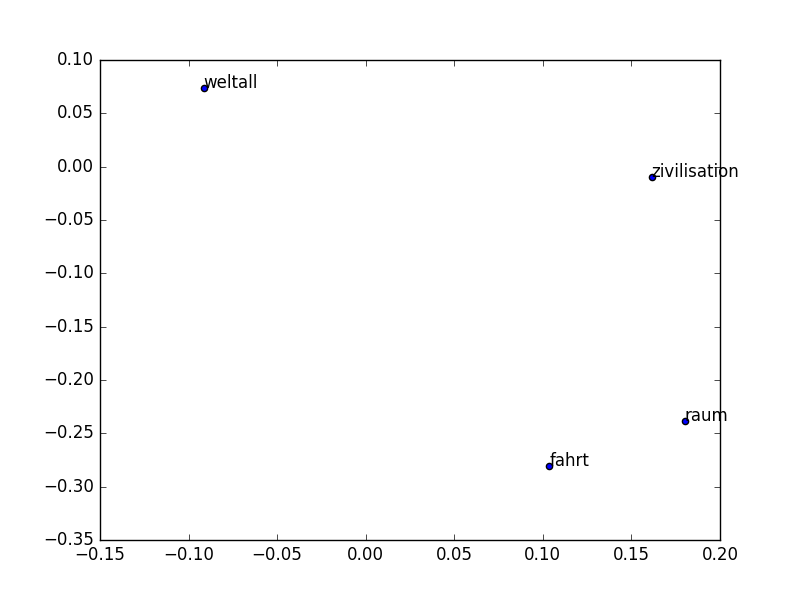
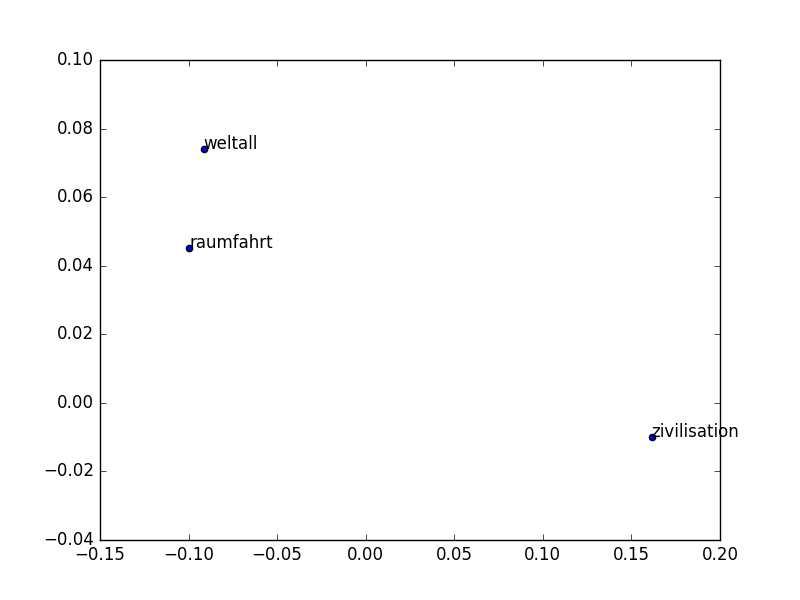
Add dataset to this script

diff --git a/evaluate_word_vectors.py b/evaluate_word_vectors.py
@@ -22,13 +22,17 @@ from sklearn.manifold import TSNE
 import morph_parse_german
 from sklearn import cross_validation
 from sklearn import svm
+from sklearn.linear_model import LogisticRegression, LogisticRegressionCV
 
-SPLIT_MORPH = True
+SPLIT_MORPH = False #True
+STEM = False
 
 def main():
     parser = argparse.ArgumentParser()
-    parser.add_argument('--vocab_file', default='glove/vocab_german_all.txt', type=str)
-    parser.add_argument('--vectors_file', default='glove/vectors_german_all.txt', type=str)
+    # parser.add_argument('--vocab_file', default='glove/vocab_german_unprocessed.txt', type=str)
+    # parser.add_argument('--vectors_file', default='glove/vectors_german_unprocessed.txt', type=str)
+    parser.add_argument('--vocab_file', default='neural_embeddings/de_en_50_1.vocab', type=str)
+    parser.add_argument('--vectors_file', default='neural_embeddings/de_en_50_1.txt', type=str)
     args = parser.parse_args()
 
     with open(args.vocab_file, 'r') as f:
@@ -85,16 +89,23 @@ def evaluate_vectors(W, vocab, ivocab, filename):
         plt.savefig("tsne-"+title+filename.split('.')[0].split('/')[1]+".png", format = 'png')
         plt.close()
 
-    plot_embeddings(["raum", "fahrt", "weltall", "zivilisation"], "1")
-    plot_embeddings(["klass", "zimm", "lesung", "saal", "vor", "raum"], "2")
-    plot_embeddings([("raum", "fahrt"), "weltall", ("klass", "raum"), ("vor", "lesung", "saal")], "3")
-    plot_embeddings([("raum", "fahrt", "zivilisation"), "weltall", ("klass", "raum"), ("vor", "lesung", "saal")], "4")
-    plot_embeddings([("raum", "fahrt", "zivilisation"), "weltall", ("klass", "raum"), ("vor", "lesung", "saal"), "schul", "grund","schul", "universitat"], "5")
-    # plot_embeddings([("raum", "fahrt", "zivilisation"), "weltall", ("klass", "raum"), ("vor", "lesung", "saal"), "schul", "grundschul", "universitat"], "5")
-    plot_embeddings(["autobahn", ("auto", "bahn"), "auto", "bahn"], "5")
-    plot_embeddings(["produkt", "ion", "landschaft", "fabrik", "manufaktur", ("produkt", "ion", "landschaft"), ("produkt", "ion"), ("produkt", "landschaft")], "6")
-    plot_embeddings(['organisation', 'struktur', ('organisation', 'struktur'), "firma", ("firma", "struktur"), "unter","nehm", ("unter","nehm", "struktur")], "7")
-    # plot_embeddings(['organisation', 'struktur', ('organisation', 'struktur'), "firma", ("firma", "struktur"), "unternehmen", ("unternehmen", "struktur")], "7_unprocessed")
+    # plot_embeddings(["raum", "fahrt", "weltall", "zivilisation"], "1")
+    # plot_embeddings(["klass", "zimm", "lesung", "saal", "vor", "raum"], "2")
+    # plot_embeddings([("raum", "fahrt"), "weltall", ("klass", "raum"), ("vor", "lesung", "saal")], "3")
+    # plot_embeddings([("raum", "fahrt", "zivilisation"), "weltall", ("klass", "raum"), ("vor", "lesung", "saal")], "4")
+    # plot_embeddings([("raum", "fahrt", "zivilisation"), "weltall", ("klass", "raum"), ("vor", "lesung", "saal"), "schul", "grund","schul", "universitat"], "5")
+    # # plot_embeddings([("raum", "fahrt", "zivilisation"), "weltall", ("klass", "raum"), ("vor", "lesung", "saal"), "schul", "grundschul", "universitat"], "5")
+    # plot_embeddings(["autobahn", ("auto", "bahn"), "auto", "bahn"], "5")
+    # plot_embeddings(["produkt", "ion", "landschaft", "fabrik", "manufaktur", ("produkt", "ion", "landschaft"), ("produkt", "ion"), ("produkt", "landschaft")], "6")
+    # plot_embeddings(['organisation', 'struktur', ('organisation', 'struktur'), "firma", ("firma", "struktur"), "unter","nehm", ("unter","nehm", "struktur")], "7")
+    # # plot_embeddings(['organisation', 'struktur', ('organisation', 'struktur'), "firma", ("firma", "struktur"), "unternehmen", ("unternehmen", "struktur")], "7_unprocessed")
+
+    # plot_embeddings(["raumfahrt", "weltall", "zivilisation"], "1")
+    # plot_embeddings(["klassenzimmer", "lesung", "vorlesung", "raum"], "2")
+    # plot_embeddings(["autobahn", ("auto", "bahn"), "auto", "bahn"], "5")
+    # plot_embeddings(["produktion", "landschaft", "fabrik", "manufaktur", ("produktion", "landschaft"), ("produkt", "landschaft")], "6")
+    # plot_embeddings(['organisation', 'struktur', ('organisation', 'struktur'), "firma", ("firma", "struktur"), "unternehmen"], "7")
+    # # plot_embeddings(['organisation', 'struktur', ('organisation', 'struktur'), "firma", ("firma", "struktur"), "unternehmen", ("unternehmen", "struktur")], "7_unprocessed")
 
     # organisationstruktur was pruned!
     # "raum"+"fahrt"
@@ -117,43 +128,94 @@ def evaluate_vectors(W, vocab, ivocab, filename):
         n = 50 # feature dimension
 
         # 0 to 5
+
+        composition =  np.mean # np.sum #
         pos_labels = np.loadtxt('data/GermanSentimentData/positive-labels.txt', skiprows=1)
+        neg_labels = np.loadtxt('data/GermanSentimentData/negative-labels.txt', skiprows=1)
 
         X = []# np.empty((N,n)) # data
         Y = [] #np.empty(N, dtype=bool) # labels
 
-        with open('data/GermanSentimentData/data.txt', 'r') as f:
+        # TODO
+        if False:
+            with open('data/GermanSentimentData/data.txt', 'r') as f:
+                for i, line in enumerate(f):
+                    sys.stdout.write("  Building training data: %d of %d sentences.   \r" % (i+1, N))
+                    sys.stdout.flush()
+
+                    # morph split words in this sentence
+                    if SPLIT_MORPH:
+                        words = morph_parse_german.split_sentence(line)
+                    elif STEM:
+                        words = [morph_parse_german.stem(w) for w in line.split(' ')]
+                    else:
+                        words = [w for w in line.split(' ')]
+
+                    vals = [W[vocab[x]] for x in words if x in vocab]
+                    if (len(vals) == 0):
+                        continue
+
+                    # Compute label
+                    # Inore examples with big discrepancies between labelers
+                    pos = pos_labels[i]
+                    neg = neg_labels[i]
+
+                    if (np.sum(np.array(pos)>3) == 3):
+                        label = 1
+                    elif (np.sum(np.array(neg)>3) == 3):
+                        label = -1
+                    elif (np.sum(np.array(neg)<3) == 3) and (np.sum(np.array(pos)<3) == 3):
+                        label = 0
+                    else:
+                        continue
+
+                    Y.append(label)
+                    X.append(composition(np.array(vals), axis=0))
+
+        with open('data/mlsa_sentences.tsv', 'r') as f:
             for i, line in enumerate(f):
-                sys.stdout.write("  Building training data: %d of %d sentences.   \r" % (i+1, N))
-                sys.stdout.flush()
+                print "Processing MLSA line "+str(i+1)
+                data = line.split('\t')
+                sentence = data[2]
 
                 # morph split words in this sentence
-
                 if SPLIT_MORPH:
-                    words = morph_parse_german.split_sentence(line)
+                    words = morph_parse_german.split_sentence(sentence)
                 else:
-                    words = [morph_parse_german.stem(w) for w in line.split(' ')]
-
+                    words = [morph_parse_german.stem(w) for w in sentence.split(' ')]
+                    
                 vals = [W[vocab[x]] for x in words if x in vocab]
                 if (len(vals) == 0):
                     continue
-                else:
-                    X.append(np.mean(np.array(vals), axis=0))
 
-                # Compute label
-                # TODO: consider negative labels as well
-                pos = pos_labels[i]
-                # TODO: probably ignore examples with big discrepancies between labelers
-                score = np.mean(pos)
-                Y.append(bool(score > 2.5))
+                label = data[10][0]
+                if label == '+':
+                    Y.append(1)
+                elif label == '-':
+                    Y.append(-1)
+                elif label == '0':
+                    Y.append(0)
+                else:
+                    continue # skip this example (should only happen with title line)
+                
+                X.append(composition(np.array(vals), axis=0))
+
 
         N = len(Y)
         Y = np.array(Y)
         X = np.array(X)
         assert X.shape == (N,n)
 
+        print "Num positive: "+str(np.sum(Y==1))
+        print "Num negative: "+str(np.sum(Y==-1))
+        print "Num neutral: "+str(np.sum(Y==0))
+
+        print X
+        print Y
+
         # TODO: train model & test model!
-        clf = svm.SVC(kernel='linear', C=1)
+        # clf = svm.SVC(kernel='linear', C=1)
+        clf = LogisticRegressionCV()
         # cv = cross_validation.ShuffleSplit(N, n_iter=3,test_size=0.3, random_state=0)
         scores = cross_validation.cross_val_score(clf, X, Y, cv=10)
 
